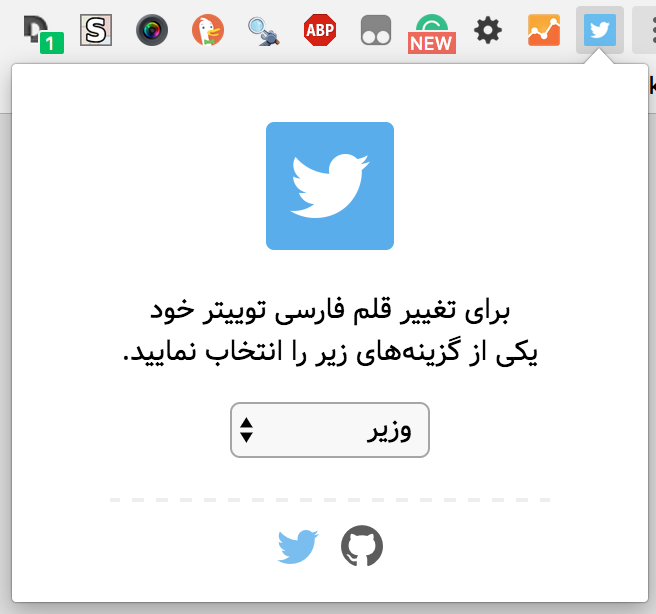
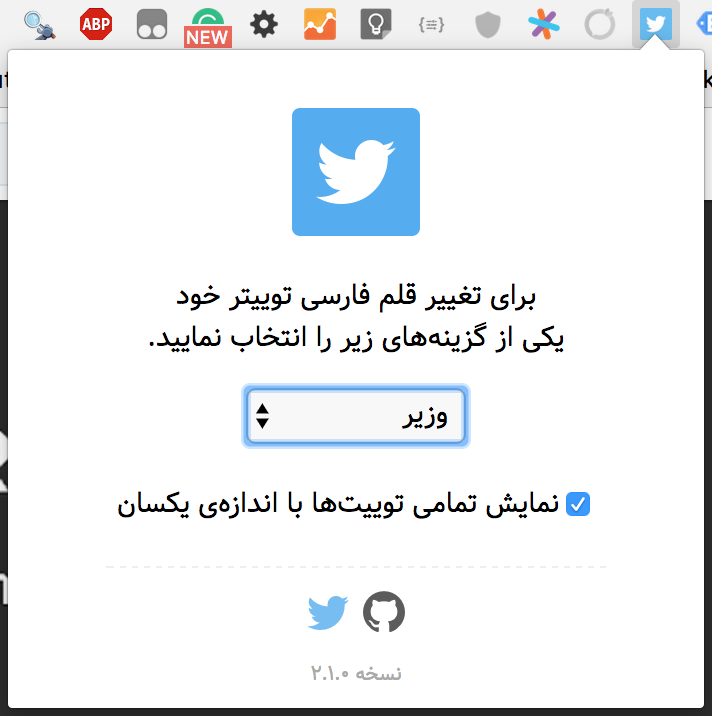
feat(fixed-font-size): implement fixed font size feature

Changed region(s): [[0.0, 0.0, 1.0, 1.0]]

diff --git a/app/scripts.babel/popup.js b/app/scripts.babel/popup.js
@@ -16,6 +16,10 @@ const selectFontElement = document.querySelector('#persian-twitter-font');
 const currentFont = localStorage.getItem('persian-twitter-font') || 'default';
 selectFontElement.value = currentFont;
 
+const fixedFontSizeCheckbox = document.querySelector('#persian-twitter-fixed-font-size');
+const currentFixedFontSize = parseInt(localStorage.getItem('persian-twitter-fixed-font-size'), 10) || 0;
+fixedFontSizeCheckbox.checked = currentFixedFontSize;
+
 const links = document.querySelectorAll('a');
 for (const link of links) {
   link.addEventListener('click', e => {
@@ -27,14 +31,21 @@ for (const link of links) {
   });
 }
 
-selectFontElement.addEventListener('change', () => {
+selectFontElement.addEventListener('change', handleChanges);
+fixedFontSizeCheckbox.addEventListener('change', handleChanges);
+
+function handleChanges() {
   const font = selectFontElement.value;
   localStorage.setItem('persian-twitter-font', font);
+  const fixedFontSize = fixedFontSizeCheckbox.checked ? 1 : 0;
+  localStorage.setItem('persian-twitter-fixed-font-size', fixedFontSize);
+
   chrome.tabs.query({url: urlPatterns}, function(tabs) {
     for (const tab of tabs) {
       chrome.tabs.sendMessage(tab.id, {changeFont: {
-        font
+        font,
+        fixedFontSize        
       }});
     }
   });
-});
+}

diff --git a/app/scripts.babel/contentscript.js b/app/scripts.babel/contentscript.js
@@ -15,13 +15,20 @@ chrome.runtime.onMessage.addListener((request, sender) => {
     }
     
     const bodyElement = document.querySelector('body');
+    const fixedFontSizeStatus = request.changeFont.fixedFontSize;
     const fontName = request.changeFont.font;
+    if (fixedFontSizeStatus && !bodyElement.classList.contains('persian-twitter-fixed-font-size')) {
+      bodyElement.classList.add('persian-twitter-fixed-font-size');
+    }
+    if (!fixedFontSizeStatus && bodyElement.classList.contains('persian-twitter-fixed-font-size')) {
+      bodyElement.classList.remove('persian-twitter-fixed-font-size');
+    }
     const newClassName = `persian-twitter-${fontName}`;
     if (bodyElement.classList.contains(newClassName)) {
         return;
     }
     for (const className of bodyElement.classList) {
-        if (className.startsWith('persian-twitter')) {
+        if (className.startsWith('persian-twitter') && className !== 'persian-twitter-fixed-font-size') {
             bodyElement.classList.remove(className);
         }
     }

diff --git a/app/styles/page-chrome.css b/app/styles/page-chrome.css
@@ -177,6 +177,16 @@ body.persian-twitter-iraniansans, body.persian-twitter-iraniansans .TwitterCard 
   word-spacing: -1px;
 }
 
+body.persian-twitter-fixed-font-size .TweetTextSize.TweetTextSize--13px,
+body.persian-twitter-fixed-font-size .TweetTextSize.TweetTextSize--16px,
+body.persian-twitter-fixed-font-size .TweetTextSize.TweetTextSize--22px,
+body.persian-twitter-fixed-font-size .TweetTextSize.TweetTextSize--26px,
+body.persian-twitter-fixed-font-size .TweetTextSize .twitter-atreply b,
+body.persian-twitter-fixed-font-size .TweetTextSize .twitter-hashtag b {
+  font-size: 1rem !important;
+  font-weight: 400 !important;
+}
+
 blockquote, dl, dd, h1, h2, h3, h4, h5, h6, figure, p, pre {
   margin-top: 3px !important;
 }

diff --git a/app/styles/page-firefox.css b/app/styles/page-firefox.css
@@ -177,6 +177,16 @@ body.persian-twitter-iraniansans, body.persian-twitter-iraniansans .TwitterCard 
   word-spacing: -1px;
 }
 
+body.persian-twitter-fixed-font-size .TweetTextSize.TweetTextSize--13px,
+body.persian-twitter-fixed-font-size .TweetTextSize.TweetTextSize--16px,
+body.persian-twitter-fixed-font-size .TweetTextSize.TweetTextSize--22px,
+body.persian-twitter-fixed-font-size .TweetTextSize.TweetTextSize--26px,
+body.persian-twitter-fixed-font-size .TweetTextSize .twitter-atreply b,
+body.persian-twitter-fixed-font-size .TweetTextSize .twitter-hashtag b {
+  font-size: 1rem !important;
+  font-weight: 400 !important;
+}
+
 blockquote, dl, dd, h1, h2, h3, h4, h5, h6, figure, p, pre {
   margin-top: 3px !important;
 }

diff --git a/app/scripts.babel/background.js b/app/scripts.babel/background.js
@@ -22,7 +22,8 @@ chrome.tabs.onUpdated.addListener((tabId, changeInfo, currentTab) => {
     }
     for (const tab of tabs) {
       chrome.tabs.sendMessage(tab.id, {changeFont: {
-        font: localStorage.getItem('persian-twitter-font') || 'default'
+        font: localStorage.getItem('persian-twitter-font') || 'default',
+        fixedFontSize: localStorage.getItem('persian-twitter-fixed-font-size') || 0
       }});
     }
   });

diff --git a/app/popup.html b/app/popup.html
@@ -34,6 +34,11 @@
       <option value="iraniansans">ایرانیان سنس</option>
     </select>
     
+    <div>
+      <input type="checkbox" id="persian-twitter-fixed-font-size" value="1">
+      <label for="persian-twitter-fixed-font-size">نمایش تمامی توییتها با اندازهی یکسان</label>
+    </div>
+    
     </main>
     <!-- build:js scripts/popup-vendor.js -->
     <!-- bower:js -->

diff --git a/app/styles/popup.css b/app/styles/popup.css
@@ -49,7 +49,7 @@ body {
   font-family: Vazir;
   font-size: 1rem;
   line-height: 1.5;
-  width: 320px;
+  width: 330px;
   padding: 20px 40px 0;
 }
 
@@ -60,7 +60,7 @@ img {
   display: block;
 }
 
-p, ul {
+p, ul, div {
   font: inherit;
   text-align: center;
 }
@@ -70,6 +70,10 @@ select {
   margin: 5px auto;
   width: 110px;
   font: inherit;
+}
+
+div {
+  margin-top: 20px;
 }
 
 ul {
